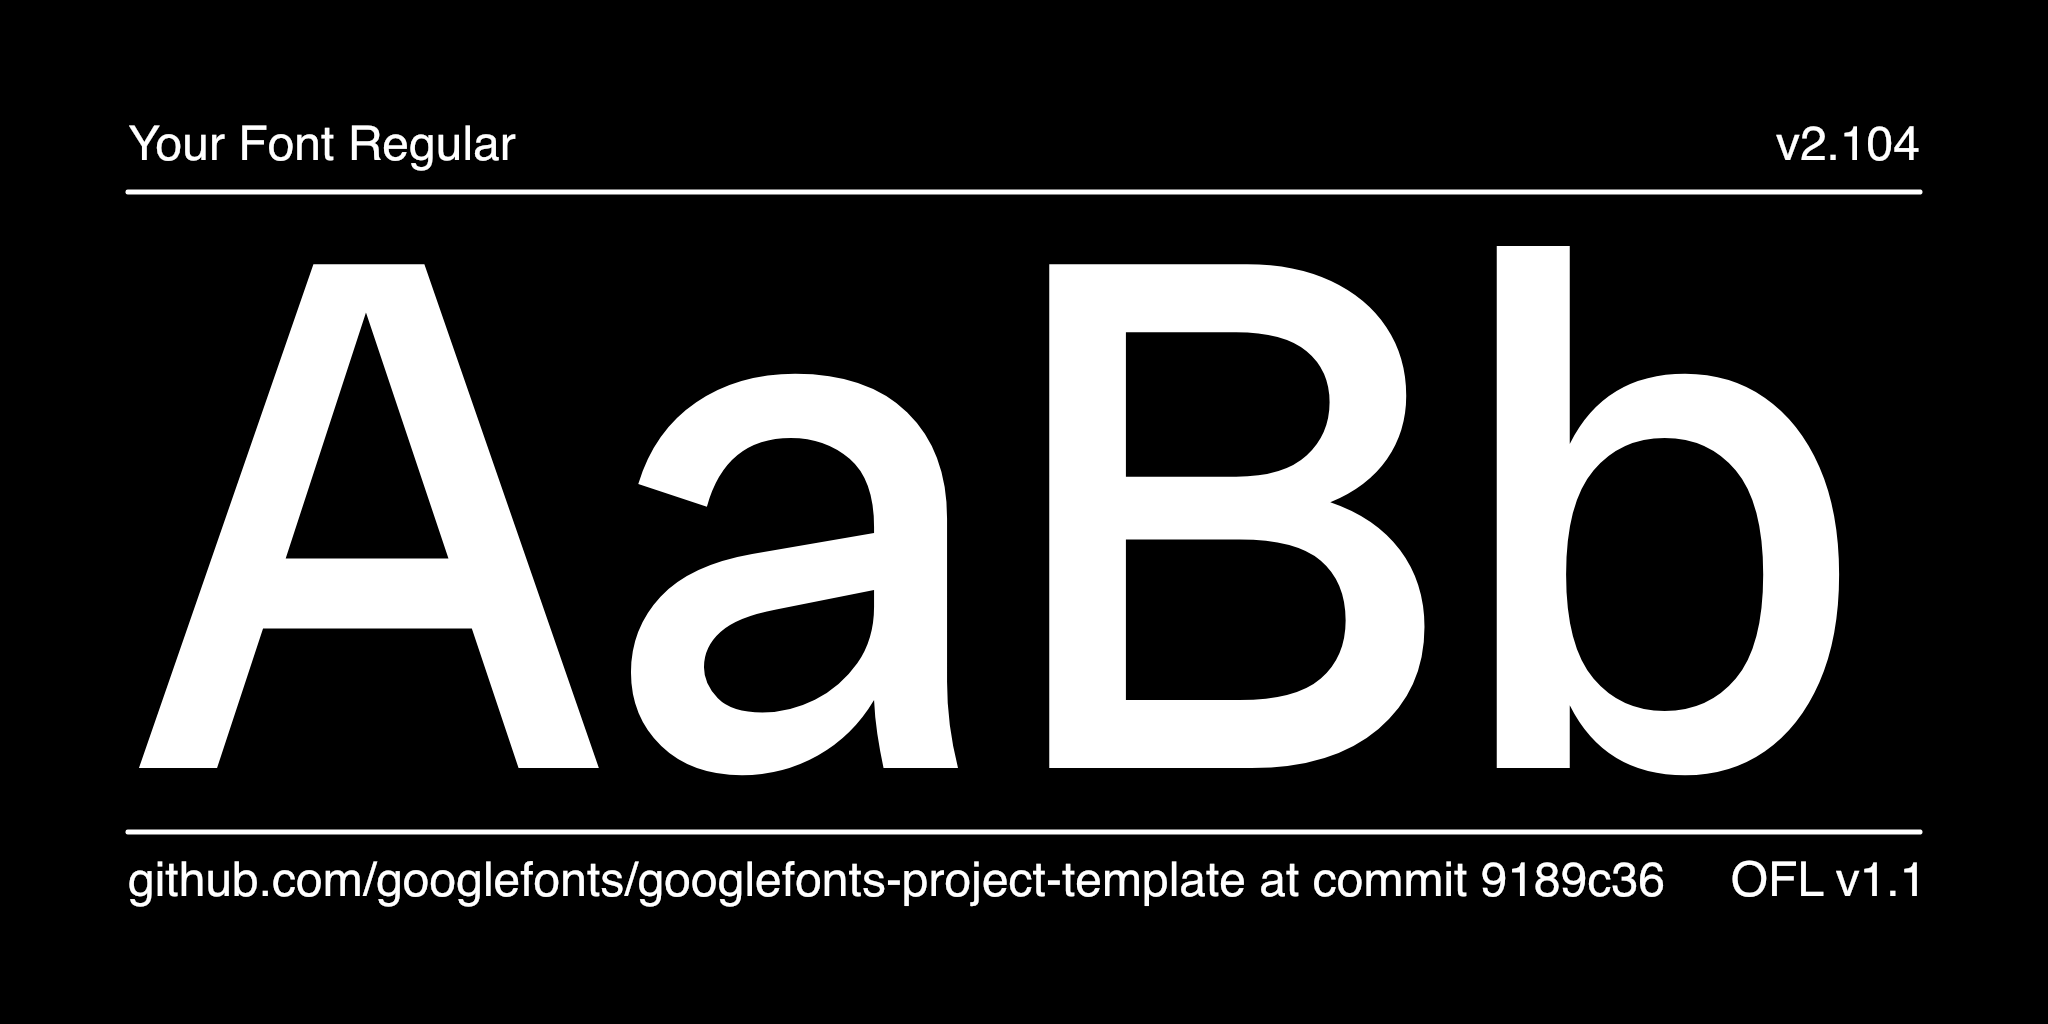
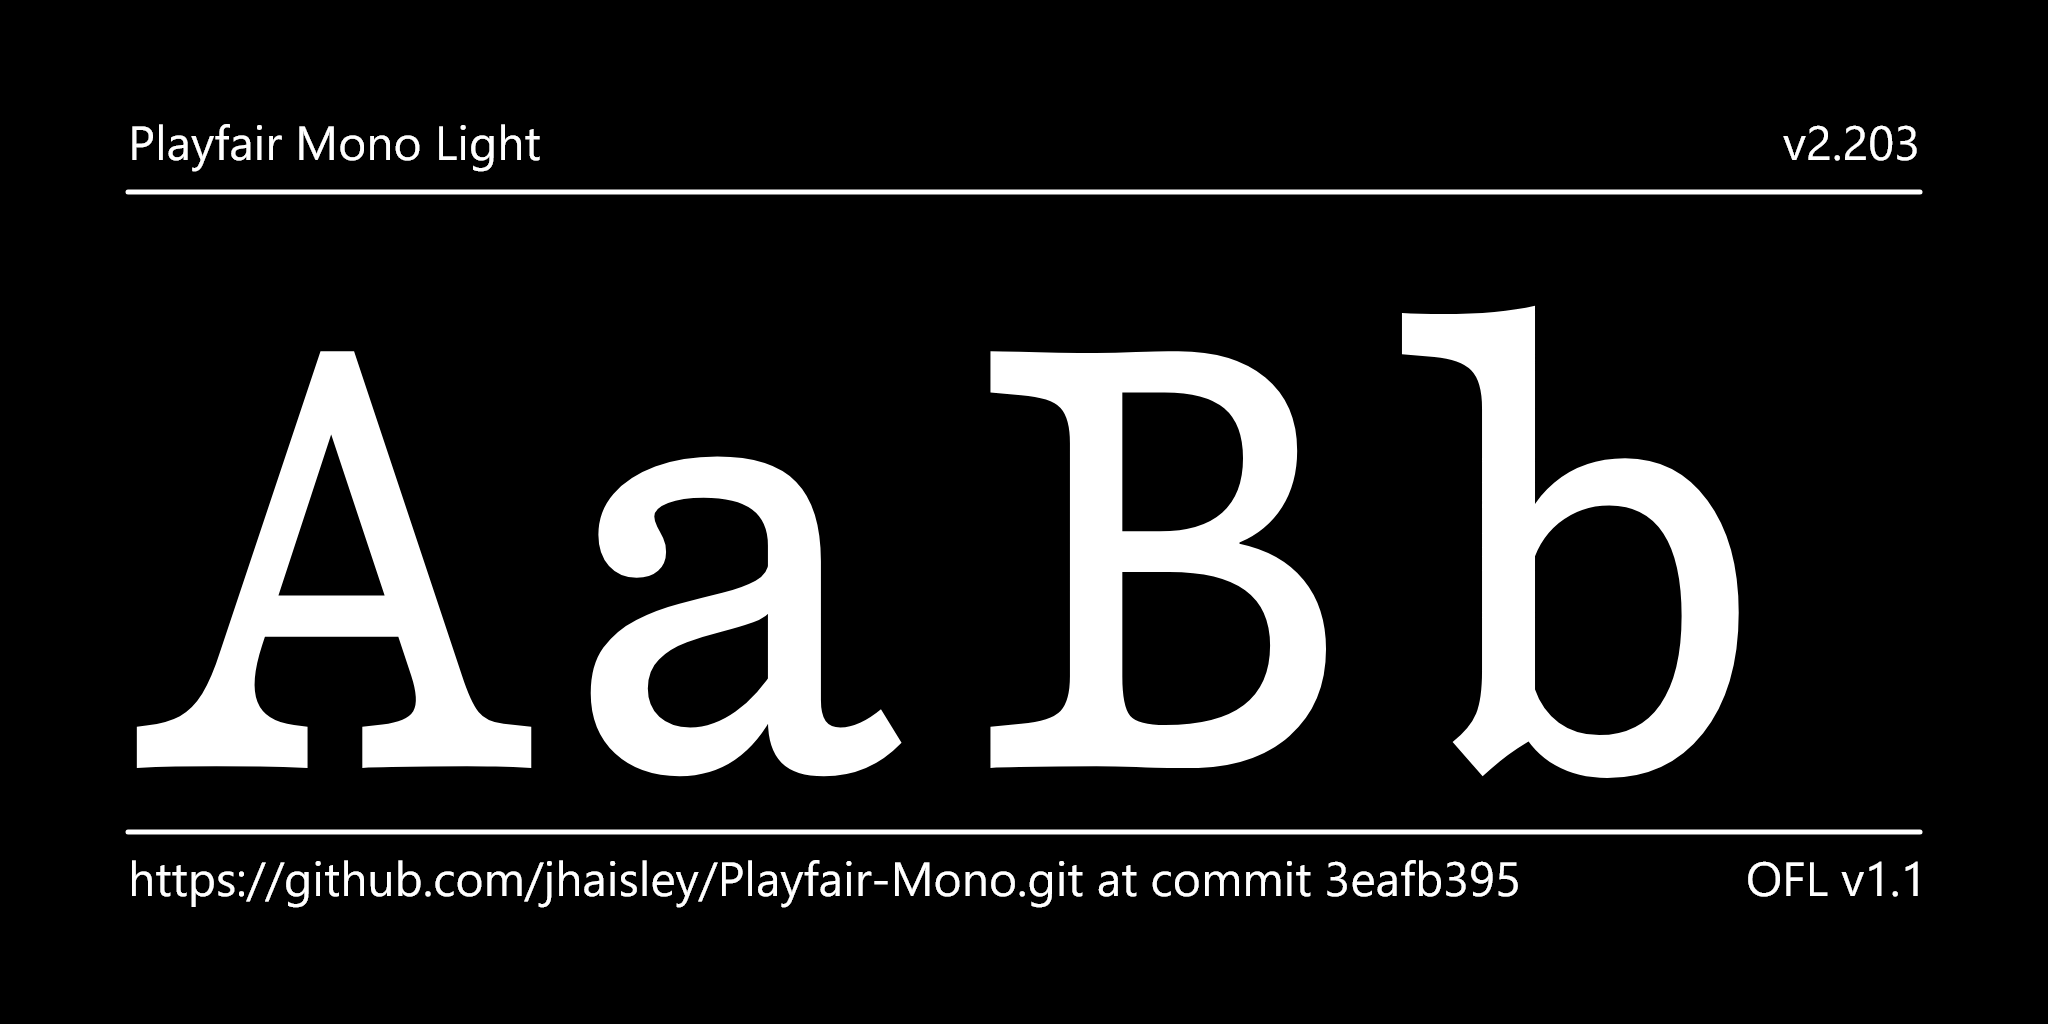
feat: Update DrawBot scripts to generate specimen documentation images and create specimen images

diff --git a/documentation/image1.py b/documentation/image1.py
@@ -31,7 +31,7 @@ GRID_VIEW = False  # Toggle this for a grid overlay
 # Handel the "--output" flag
 # For example: $ python3 documentation/image1.py --output documentation/image1.png
 parser = argparse.ArgumentParser()
-parser.add_argument("--output", metavar="PNG", help="where to write the PNG file")
+parser.add_argument("--output", metavar="PNG", help="where to write the PNG file", default="documentation/image1.png")
 args = parser.parse_args()
 
 # Load the font with the parts of fonttools that are imported with the line:

diff --git a/documentation/image2.py b/documentation/image2.py
@@ -34,7 +34,7 @@ GRID_VIEW = False  # Toggle this for a grid overlay
 # Handel the "--output" flag
 # For example: $ python3 documentation/image1.py --output documentation/image1.png
 parser = argparse.ArgumentParser()
-parser.add_argument("--output", metavar="PNG", help="where to write the PNG file")
+parser.add_argument("--output", metavar="PNG", help="where to write the PNG file", default="documentation/image2.png")
 args = parser.parse_args()
 
 # Load the font with the parts of fonttools that are imported with the line: